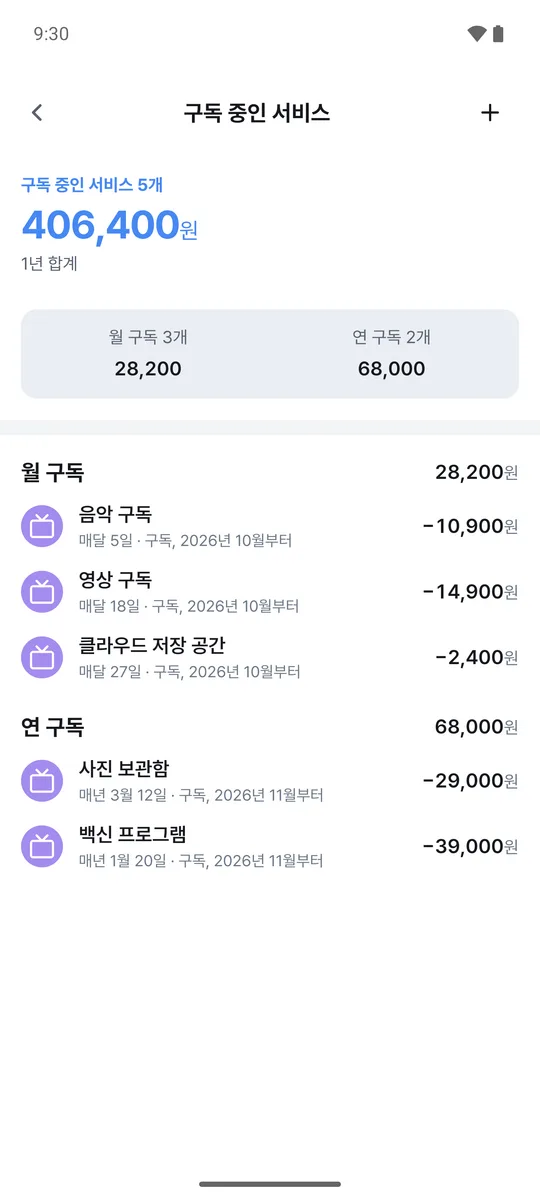
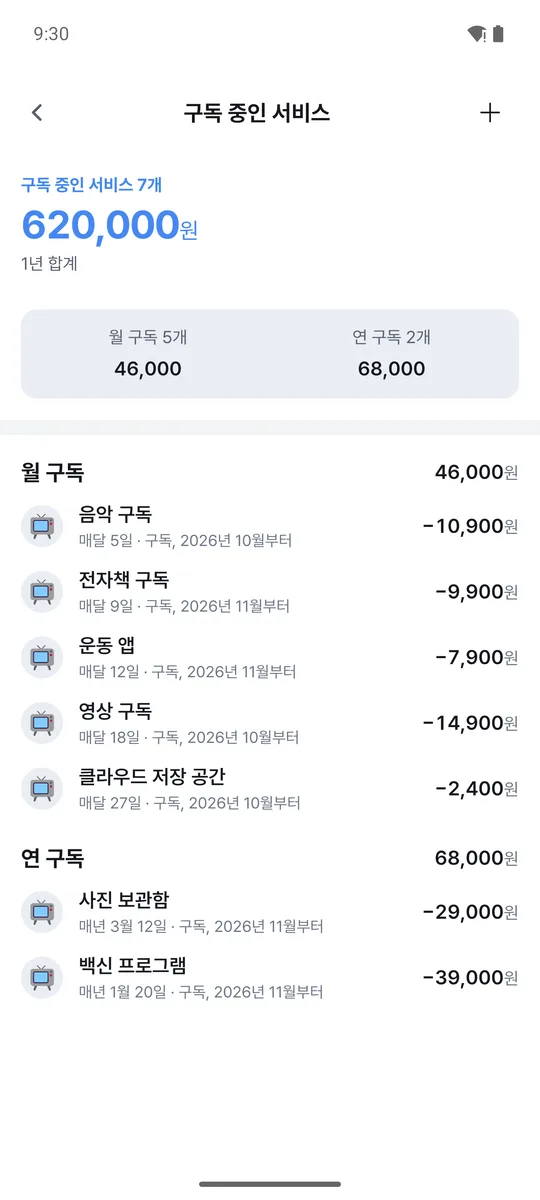
chore: 1.2.2 화면으로 사진 다시 찍기
앱 1.2.2(아이콘 확정안 · 달력 고른 날 · 떠 있는 탭 바)로 홈의 화면 사진 18장을 새로 찍었다.
예시 데이터는 10월이 꽉 찬 한 달이 되게 채웠다 — 매일의 기록 · 체크카드 · 급여 통장 ·
정기 항목(보험 · 적금 · 구독 둘) · 가족 장부 12개월 · 여행 지출 하루 서너 건.

사진이 바뀐 숫자에 맞춰 대체 텍스트의 숫자(9월 → 10월 · 구독 7개 · 관리비 차액)만 고쳤다.

Claude-Session: https://claude.ai/code/session_01D4RBPmrrWRiQNSZ717ZYs1

diff --git a/src/components/home/Features.tsx b/src/components/home/Features.tsx
@@ -65,7 +65,7 @@ export function Features() {
             <div className="tile-shots">
               <Phone
                 shot="inbox"
-                alt="결제 알림함 화면 예시. S카드와 H카드의 결제 알림이 쌓여 있고, 분류를 골라 추가해요."
+                alt="결제 알림함 화면 예시. 여러 카드의 결제 알림이 쌓여 있고, 분류를 골라 추가해요."
               />
               <Phone
                 shot="auto-records"
@@ -119,7 +119,7 @@ export function Features() {
               />
               <Phone
                 shot="subscription-services"
-                alt="구독 중인 서비스 화면 예시. 구독 5개의 1년 합계가 있고, 월 구독과 연 구독이 나뉘어 있어요."
+                alt="구독 중인 서비스 화면 예시. 구독 7개의 1년 합계가 있고, 월 구독과 연 구독이 나뉘어 있어요."
               />
             </div>
           </article>
@@ -134,7 +134,7 @@ export function Features() {
             <div className="tile-shots">
               <Phone
                 shot="glance-pink"
-                alt="핑크 강조색을 고른 월간지표 화면 예시. 9월 총 지출과 이 달 예산이 보여요."
+                alt="핑크 강조색을 고른 월간지표 화면 예시. 10월 총 지출과 이 달 예산이 보여요."
               />
               <Phone
                 shot="personal-spend-dark"

diff --git a/src/components/home/Ledgers.tsx b/src/components/home/Ledgers.tsx
@@ -50,11 +50,11 @@ const LEDGERS: Ledger[] = [
     shots: [
       {
         shot: "wizard-step",
-        alt: "가족 가계부 입력 화면 예시. 관리비가 지난달보다 6,000원 늘어 이유 칸이 열려 있어요.",
+        alt: "가족 가계부 입력 화면 예시. 관리비가 지난달보다 14,000원 늘어 이유 칸이 열려 있어요.",
       },
       {
         shot: "family-summary",
-        alt: "가족 가계부 월간지표 화면 예시. 9월 총 지출과 이번 달 달라진 항목, 그 차액이 모여 있어요.",
+        alt: "가족 가계부 월간지표 화면 예시. 10월 총 지출과 이번 달 달라진 항목, 그 차액이 모여 있어요.",
       },
     ],
   },

diff --git a/src/components/home/Stats.tsx b/src/components/home/Stats.tsx
@@ -15,7 +15,7 @@ const STATS: Stat[] = [
     title: "이 달을 한 장에",
     text: "총 지출과 수입 · 저축 · 투자, 예산에서 남은 돈까지 한 화면에 모았어요.",
     shot: "personal-glance",
-    alt: "월간지표 화면 예시. 9월 총 지출 921,600원과 수입 · 저축 · 투자, 이 달 예산과 남은 예산이 보여요.",
+    alt: "월간지표 화면 예시. 10월 총 지출 1,225,700원과 수입 · 저축 · 투자, 이 달 예산과 남은 예산이 보여요.",
   },
   {
     label: "지출 분포",
